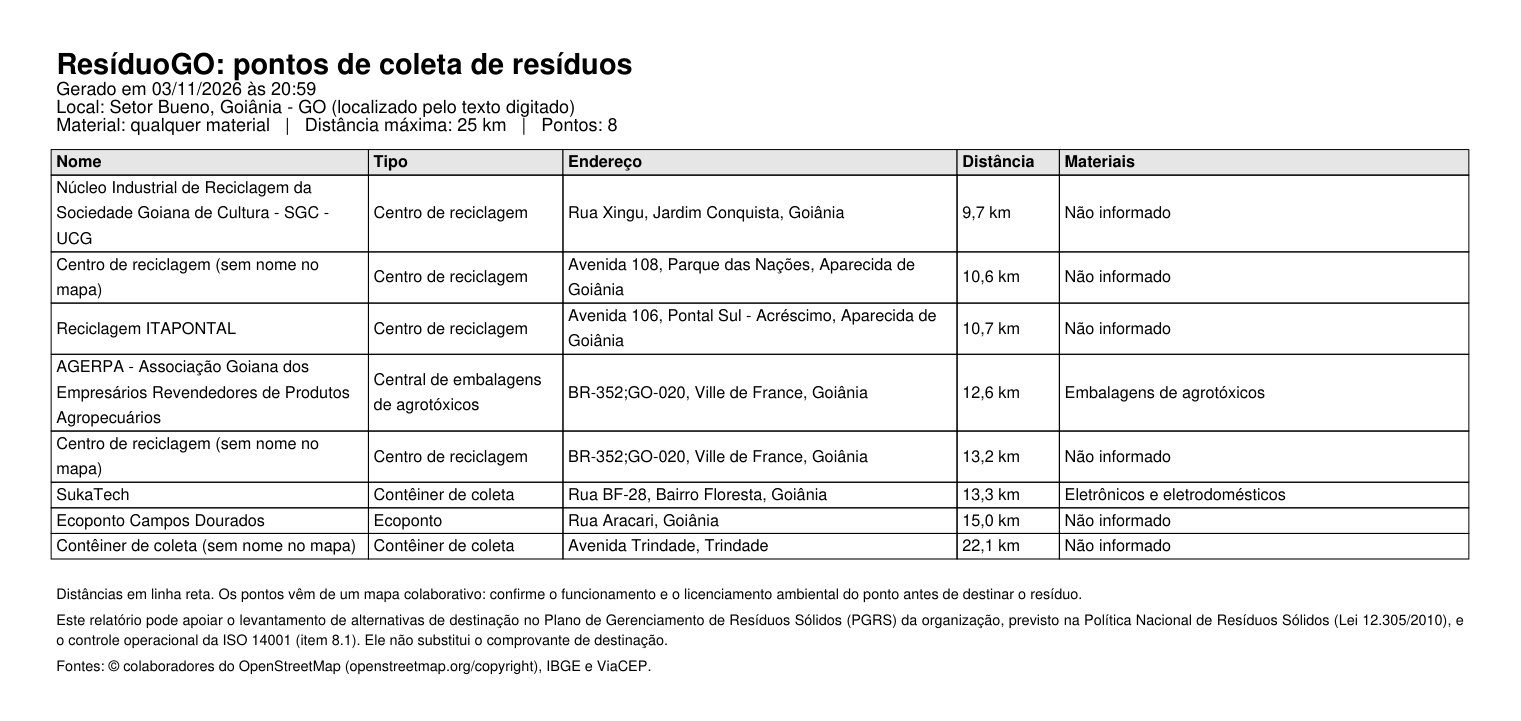
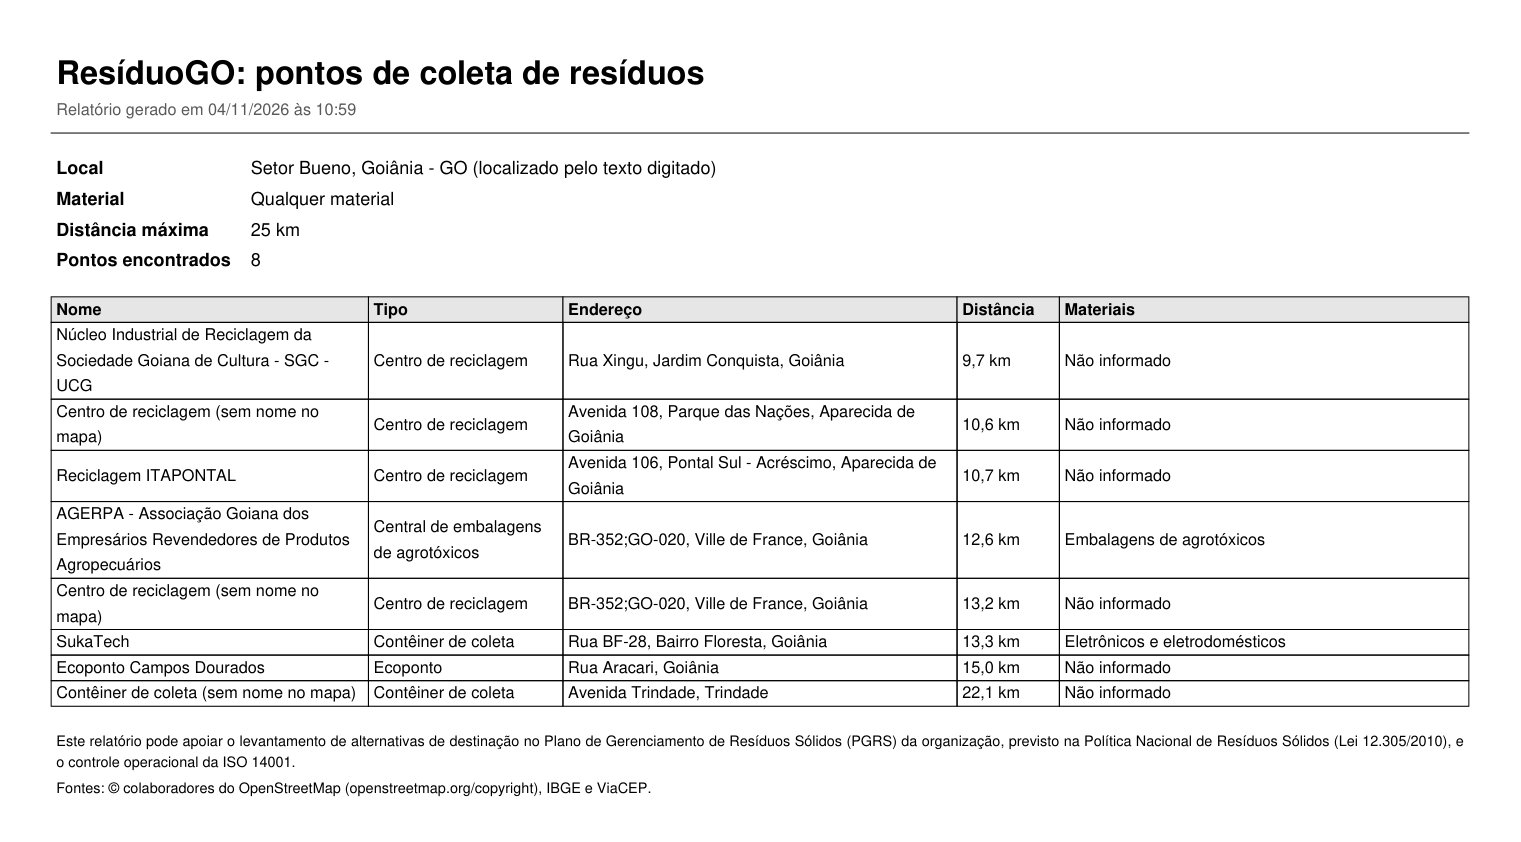
reorganiza o cabecalho do PDF e deixa nas notas so o PGRS, a ISO 14001 e as fontes

diff --git a/app/rotas/exportacao.py b/app/rotas/exportacao.py
@@ -18,12 +18,9 @@ COMO_FOI_LOCALIZADO = {
 }
 
 NOTAS_DO_RELATORIO = [
-    "Distâncias em linha reta. Os pontos vêm de um mapa colaborativo: confirme o funcionamento e o "
-    "licenciamento ambiental do ponto antes de destinar o resíduo.",
     "Este relatório pode apoiar o levantamento de alternativas de destinação no Plano de Gerenciamento de "
     "Resíduos Sólidos (PGRS) da organização, previsto na Política Nacional de Resíduos Sólidos "
-    "(Lei 12.305/2010), e o controle operacional da ISO 14001 (item 8.1). Ele não substitui o comprovante "
-    "de destinação.",
+    "(Lei 12.305/2010), e o controle operacional da ISO 14001.",
     "Fontes: © colaboradores do OpenStreetMap (openstreetmap.org/copyright), IBGE e ViaCEP.",
 ]
 
@@ -68,24 +65,13 @@ def relatorio_pdf(resultado: dict) -> bytes:
     pdf.core_fonts_encoding = "windows-1252"
     pdf.set_title("ResíduoGO: pontos de coleta de resíduos")
     pdf.add_page()
-
-    pdf.set_font("Helvetica", "B", 16)
-    pdf.cell(text="ResíduoGO: pontos de coleta de resíduos", new_x="LMARGIN", new_y="NEXT")
-    pdf.set_font("Helvetica", size=10)
-    material = MATERIAIS.get(resultado["material"], "qualquer material")
-    for linha in (
-        f"Gerado em {datetime.now():%d/%m/%Y às %H:%M}",
-        _local(resultado["origem"]),
-        f"Material: {material}   |   Distância máxima: {resultado['raio_km']} km   |   Pontos: {resultado['total']}",
-    ):
-        pdf.cell(text=_texto(linha), new_x="LMARGIN", new_y="NEXT")
-    pdf.ln(3)
+    _cabecalho(pdf, resultado)
 
     if resultado["fora_do_raio"] and resultado["pontos"]:
         pdf.set_font("Helvetica", "B", 10)
         aviso = f"Não há pontos até {resultado['raio_km']} km. A tabela mostra os mais próximos, mesmo que mais longe."
-        pdf.cell(text=aviso, new_x="LMARGIN", new_y="NEXT")
-        pdf.ln(2)
+        pdf.cell(h=6, text=aviso, new_x="LMARGIN", new_y="NEXT")
+        pdf.ln(3)
 
     pdf.set_font("Helvetica", size=9)
     if resultado["pontos"]:
@@ -101,7 +87,7 @@ def relatorio_pdf(resultado: dict) -> bytes:
                     _materiais(ponto),
                 ])
     else:
-        pdf.cell(text="Nenhum ponto encontrado para esta busca.", new_x="LMARGIN", new_y="NEXT")
+        pdf.cell(h=6, text="Nenhum ponto encontrado para esta busca.", new_x="LMARGIN", new_y="NEXT")
 
     pdf.ln(5)
     pdf.set_font("Helvetica", size=8)
@@ -112,10 +98,35 @@ def relatorio_pdf(resultado: dict) -> bytes:
 # APS-FIM
 
 
+def _cabecalho(pdf: FPDF, resultado: dict) -> None:
+    """Titulo, data e, um em cada linha, os dados da busca."""
+    pdf.set_font("Helvetica", "B", 18)
+    pdf.cell(h=9, text="ResíduoGO: pontos de coleta de resíduos", new_x="LMARGIN", new_y="NEXT")
+    pdf.set_font("Helvetica", size=9)
+    pdf.set_text_color(90)
+    pdf.cell(h=5, text=f"Relatório gerado em {datetime.now():%d/%m/%Y às %H:%M}", new_x="LMARGIN", new_y="NEXT")
+    pdf.set_text_color(0)
+    pdf.ln(2)
+    pdf.line(pdf.l_margin, pdf.get_y(), pdf.w - pdf.r_margin, pdf.get_y())
+    pdf.ln(4)
+
+    for rotulo, valor in (
+        ("Local", _local(resultado["origem"])),
+        ("Material", MATERIAIS.get(resultado["material"], "Qualquer material")),
+        ("Distância máxima", f"{resultado['raio_km']} km"),
+        ("Pontos encontrados", str(resultado["total"])),
+    ):
+        pdf.set_font("Helvetica", "B", 10)
+        pdf.cell(38, 6, rotulo)
+        pdf.set_font("Helvetica", size=10)
+        pdf.multi_cell(0, 6, _texto(valor), new_x="LMARGIN", new_y="NEXT")
+    pdf.ln(4)
+
+
 def _local(origem: dict) -> str:
     if origem["precisao"] == "mapa":
-        return f"Local: ponto escolhido no mapa ({origem['latitude']:.5f}, {origem['longitude']:.5f})"
-    return f"Local: {origem['descricao']} ({COMO_FOI_LOCALIZADO[origem['precisao']]})"
+        return f"Ponto escolhido no mapa ({origem['latitude']:.5f}, {origem['longitude']:.5f})"
+    return f"{origem['descricao']} ({COMO_FOI_LOCALIZADO[origem['precisao']]})"
 
 
 def _texto(texto: str) -> str:

diff --git a/tests/test_api.py b/tests/test_api.py
@@ -288,15 +288,18 @@ def test_relatorio_pdf_da_busca(cliente, apis_ok):
 
     texto = texto_do_pdf(resposta.content)
     for trecho in [
-        "Local: Avenida T 15, Setor Bueno, Goiânia - GO (localizado pela rua)",
-        "Material: Papel e papelão",
-        "Distância máxima: 10 km",
+        "Local Avenida T 15, Setor Bueno, Goiânia - GO (localizado pela rua)",
+        "Material Papel e papelão",
+        "Distância máxima 10 km",
+        "Pontos encontrados 1",
         "Cooperativa Recicla Goiás",
         "1,1 km",
         "Lei 12.305/2010",
         "© colaboradores do OpenStreetMap",
     ]:
         assert trecho in texto
+    for retirado in ["linha reta", "mapa colaborativo", "licenciamento", "comprovante", "item 8.1"]:
+        assert retirado not in texto
 
 
 def test_relatorio_pdf_avisa_quando_mostra_os_mais_proximos(cliente, apis_ok):
@@ -308,7 +311,7 @@ def test_relatorio_pdf_avisa_quando_mostra_os_mais_proximos(cliente, apis_ok):
 
 def test_relatorio_pdf_sem_pontos(cliente, apis_ok):
     texto = texto_do_pdf(cliente.get("/api/pontos.pdf", params={"lat": -16.80, "lon": -49.37}).content)
-    assert "Local: ponto escolhido no mapa (-16.80000, -49.37000)" in texto
+    assert "Local Ponto escolhido no mapa (-16.80000, -49.37000)" in texto
     assert "Nenhum ponto encontrado" in texto
 
 

diff --git a/docs/TRECHOS_DE_CODIGO.md b/docs/TRECHOS_DE_CODIGO.md
@@ -2,7 +2,7 @@
 
 Gerado por `scripts/exportar_trechos.py`. Não editar à mão.
 
-10 trechos, 365 linhas. O limite é de cerca de 380 linhas.
+10 trechos, 354 linhas. O limite é de cerca de 380 linhas.
 
 ## 1. As rotas do web service
 
@@ -396,24 +396,13 @@ def relatorio_pdf(resultado: dict) -> bytes:
     pdf.core_fonts_encoding = "windows-1252"
     pdf.set_title("ResíduoGO: pontos de coleta de resíduos")
     pdf.add_page()
-
-    pdf.set_font("Helvetica", "B", 16)
-    pdf.cell(text="ResíduoGO: pontos de coleta de resíduos", new_x="LMARGIN", new_y="NEXT")
-    pdf.set_font("Helvetica", size=10)
-    material = MATERIAIS.get(resultado["material"], "qualquer material")
-    for linha in (
-        f"Gerado em {datetime.now():%d/%m/%Y às %H:%M}",
-        _local(resultado["origem"]),
-        f"Material: {material}   |   Distância máxima: {resultado['raio_km']} km   |   Pontos: {resultado['total']}",
-    ):
-        pdf.cell(text=_texto(linha), new_x="LMARGIN", new_y="NEXT")
-    pdf.ln(3)
+    _cabecalho(pdf, resultado)
 
     if resultado["fora_do_raio"] and resultado["pontos"]:
         pdf.set_font("Helvetica", "B", 10)
         aviso = f"Não há pontos até {resultado['raio_km']} km. A tabela mostra os mais próximos, mesmo que mais longe."
-        pdf.cell(text=aviso, new_x="LMARGIN", new_y="NEXT")
-        pdf.ln(2)
+        pdf.cell(h=6, text=aviso, new_x="LMARGIN", new_y="NEXT")
+        pdf.ln(3)
 
     pdf.set_font("Helvetica", size=9)
     if resultado["pontos"]:
@@ -429,7 +418,7 @@ def relatorio_pdf(resultado: dict) -> bytes:
                     _materiais(ponto),
                 ])
     else:
-        pdf.cell(text="Nenhum ponto encontrado para esta busca.", new_x="LMARGIN", new_y="NEXT")
+        pdf.cell(h=6, text="Nenhum ponto encontrado para esta busca.", new_x="LMARGIN", new_y="NEXT")
 
     pdf.ln(5)
     pdf.set_font("Helvetica", size=8)

diff --git a/README.md b/README.md
@@ -123,7 +123,7 @@ As cores dos materiais na tela seguem a Resolução CONAMA 275/2001. Os itens qu
 
 ## Relação com a gestão ambiental
 
-Dar o destino correto aos resíduos é um dos controles mais comuns na gestão ambiental de uma organização, tema da família ISO 14000. O ResíduoGO ajuda empresas e moradores a encontrar onde entregar cada tipo de resíduo. O relatório em PDF e a lista em CSV deixam as opções registradas para quem cuida disso na organização: o PDF lembra que pode apoiar o levantamento de alternativas de destinação no Plano de Gerenciamento de Resíduos Sólidos (PGRS), previsto na Lei 12.305/2010, e o controle operacional da ISO 14001 (item 8.1), sem substituir o comprovante de destinação.
+Dar o destino correto aos resíduos é um dos controles mais comuns na gestão ambiental de uma organização, tema da família ISO 14000. O ResíduoGO ajuda empresas e moradores a encontrar onde entregar cada tipo de resíduo. O relatório em PDF e a lista em CSV deixam as opções registradas para quem cuida disso na organização: o PDF lembra que pode apoiar o levantamento de alternativas de destinação no Plano de Gerenciamento de Resíduos Sólidos (PGRS), previsto na Lei 12.305/2010, e o controle operacional da ISO 14001.
 
 ## Testes
 

diff --git a/docs/FUNCIONAMENTO.md b/docs/FUNCIONAMENTO.md
@@ -97,4 +97,4 @@ Cada camada só chama a de baixo: as rotas chamam os serviços, os serviços cha
 - **"Só tem GET?"** O serviço é de consulta, e REST não obriga ter todas as operações de cadastro (CRUD). `GET` é o verbo certo para leitura: não altera nada e pode ser guardado em cache.
 - **"Os dados são confiáveis?"** Vêm do OpenStreetMap, que é colaborativo. Não existe API oficial com esses pontos em Goiás, e o sistema avisa para confirmar o ponto antes de ir.
 - **"A distância é de carro?"** Não, é em linha reta (Haversine). O link "Como chegar" de cada ponto abre a rota real.
-- **"O PDF comprova a destinação do resíduo?"** Não. Ele é um levantamento de opções, que pode apoiar o PGRS (Lei 12.305/2010) e o controle operacional da ISO 14001 (item 8.1). O comprovante de destinação é outro documento, e o próprio relatório avisa isso.
+- **"O PDF comprova a destinação do resíduo?"** Não. Ele é um levantamento de opções, que pode apoiar o PGRS (Lei 12.305/2010) e o controle operacional da ISO 14001 (item 8.1). O comprovante de destinação é outro documento.
